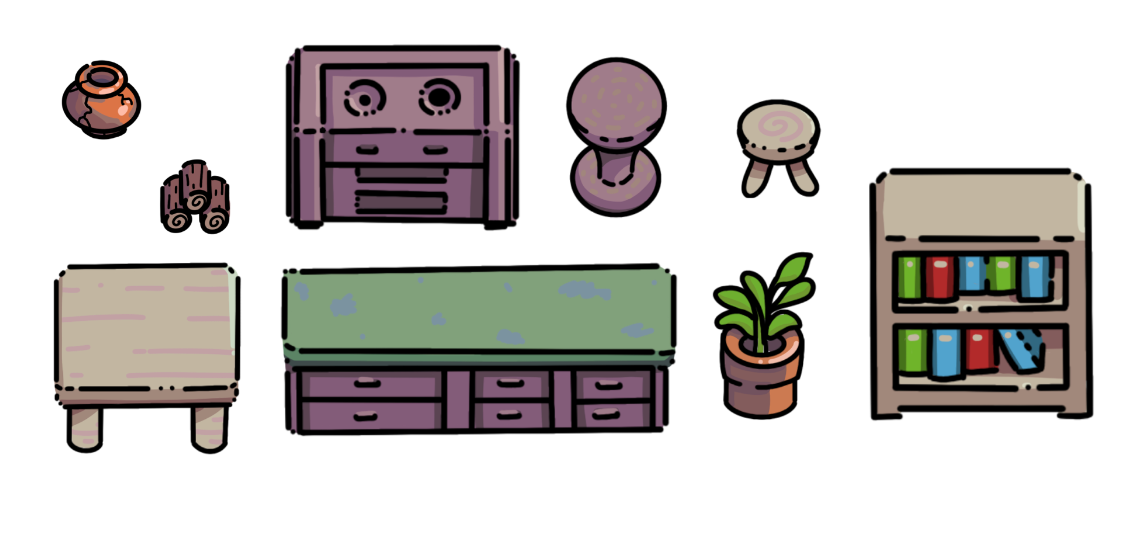
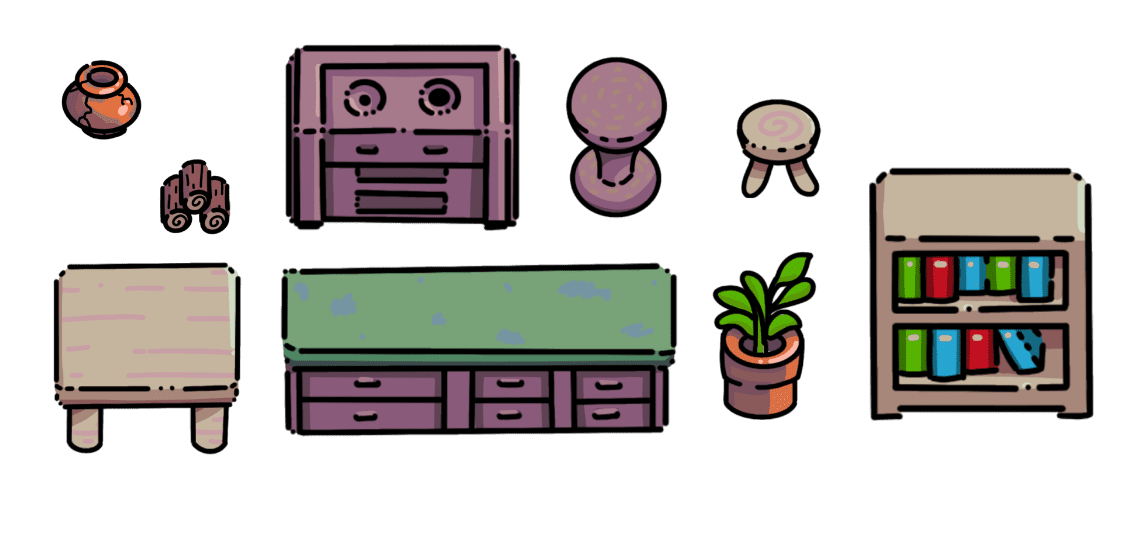
Optimizar resto de assets

Changed region(s): [[0.7642, 0.5938, 0.917, 0.6875], [0.7642, 0.4688, 0.917, 0.5625], [0.6114, 0.4688, 0.7031, 0.6562]]

diff --git a/Game/Source/Main.cpp b/Game/Source/Main.cpp
@@ -107,10 +107,10 @@ int main(int argc, char* args[])
 	}
 
 	LOG("... Bye! :)\n");
-	/*for (int i = 0; i < 100000; i++)
-	{
-		LOG("... Bye! :)\n");
-	}*/
+	//for (int i = 0; i < 100000; i++)
+	//{
+	//	LOG("... Bye! :)\n");
+	//}
 
 	// Dump memory leaks
 	return result;
